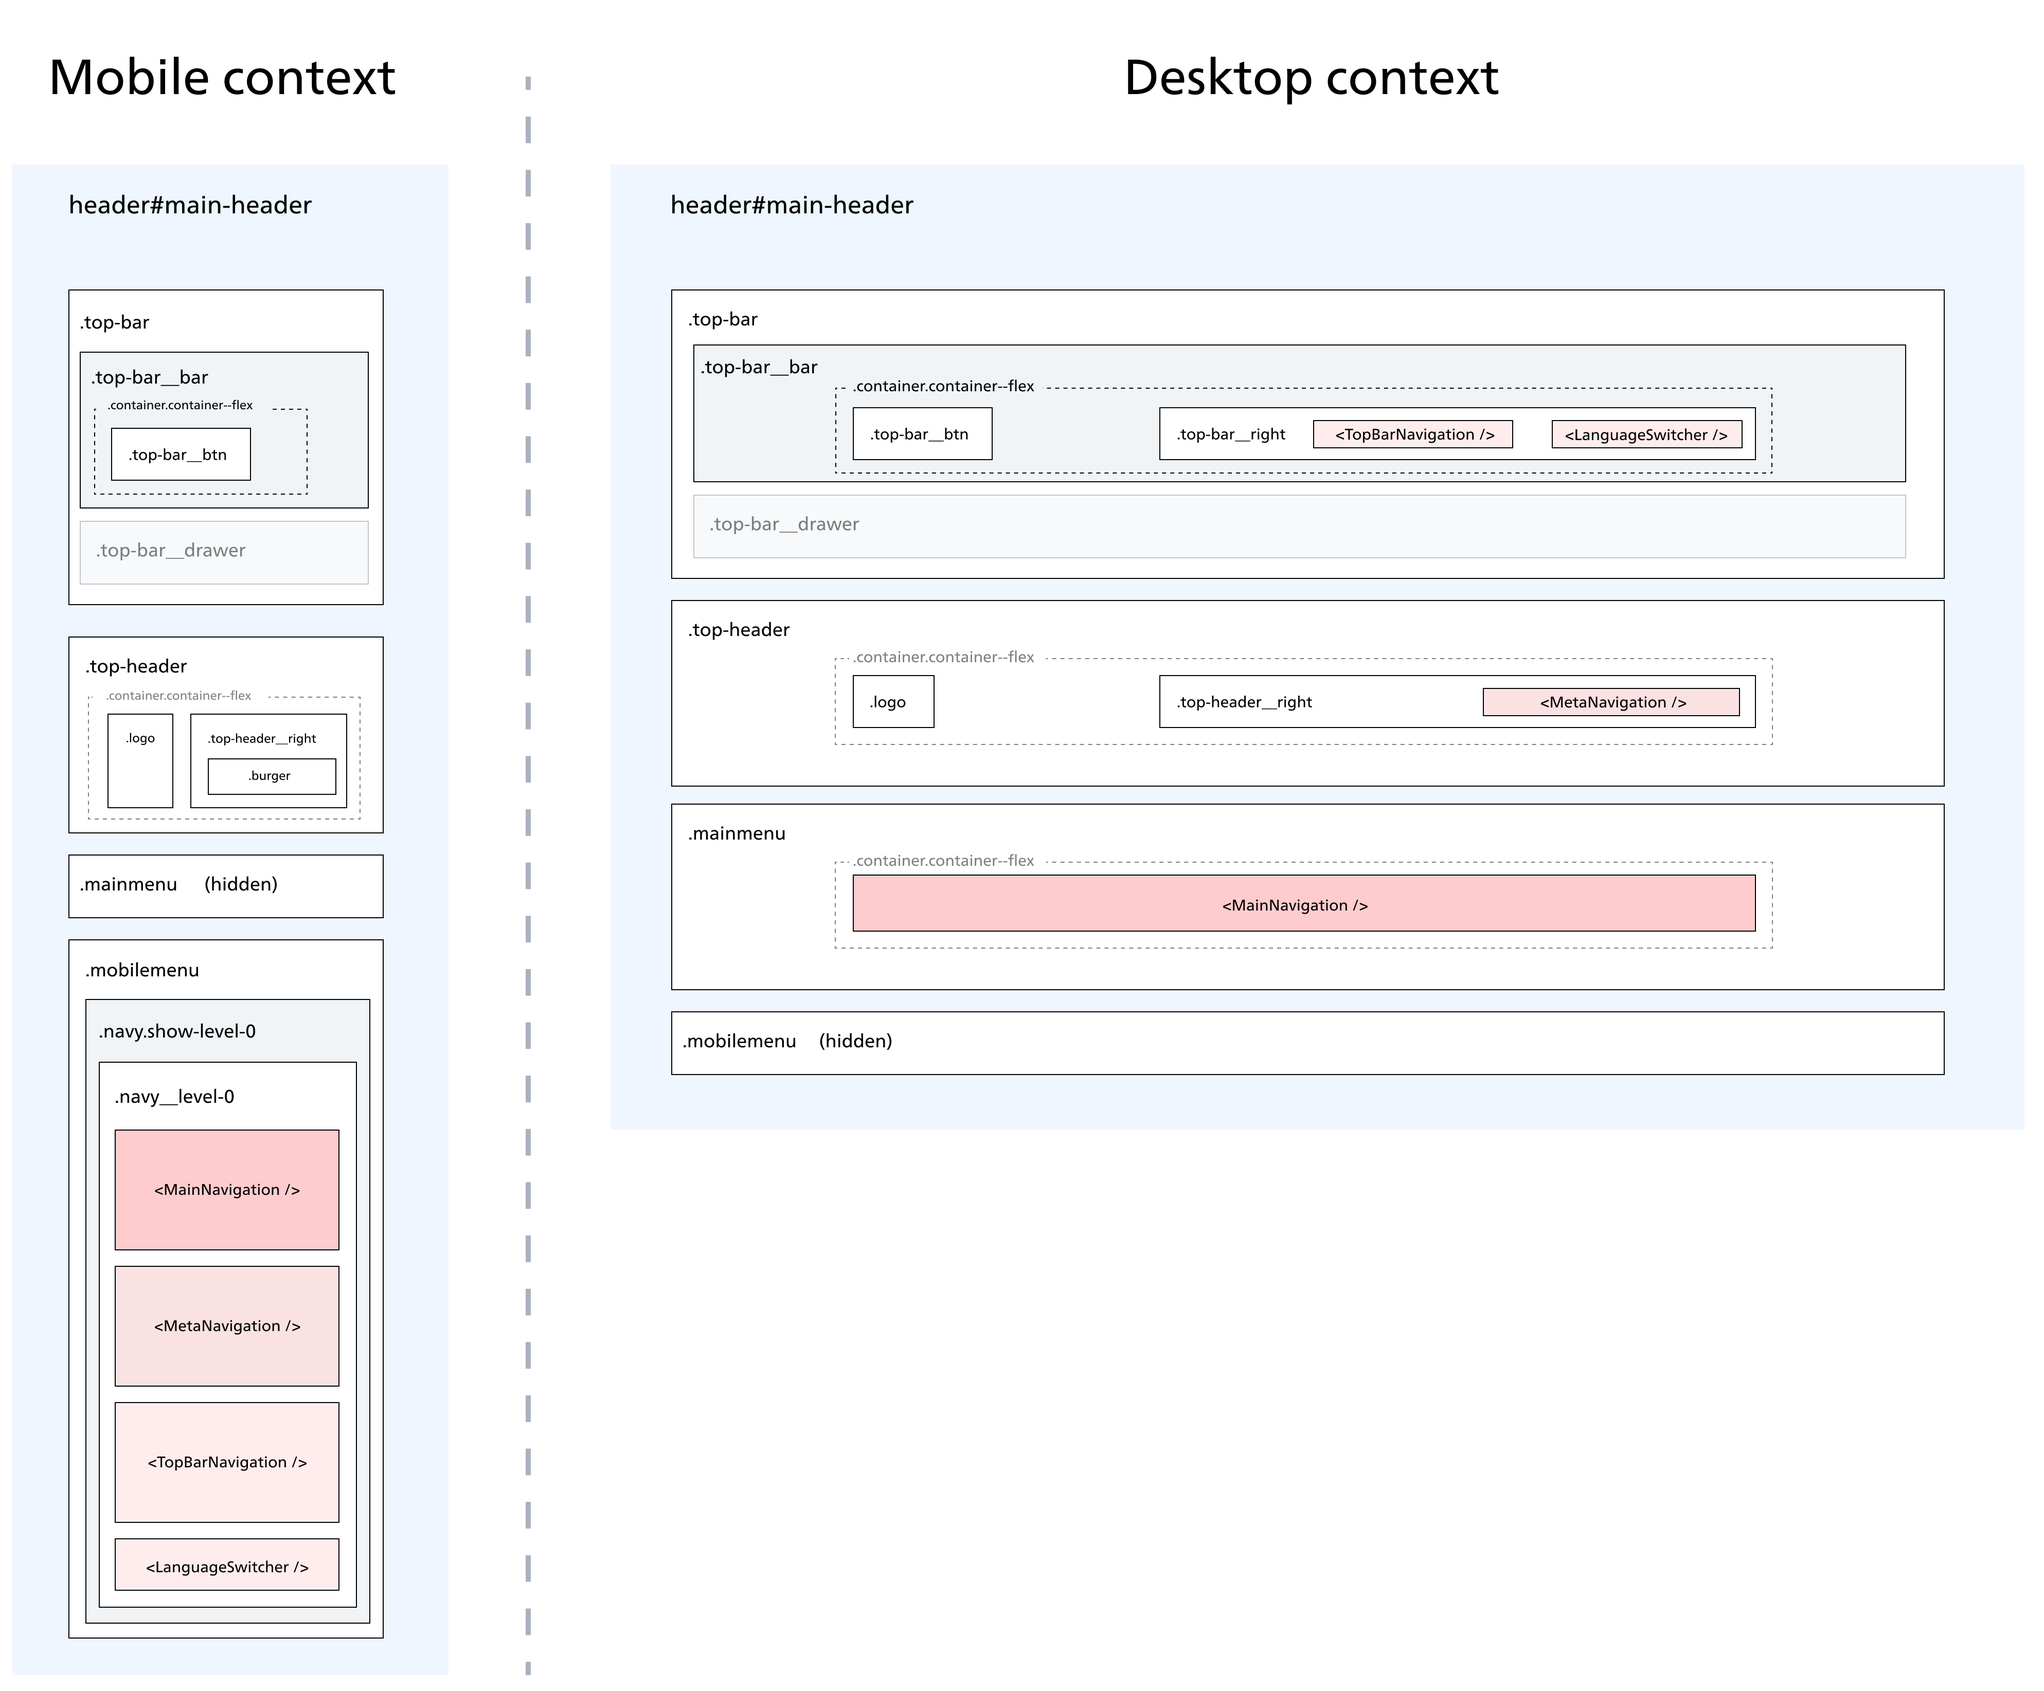
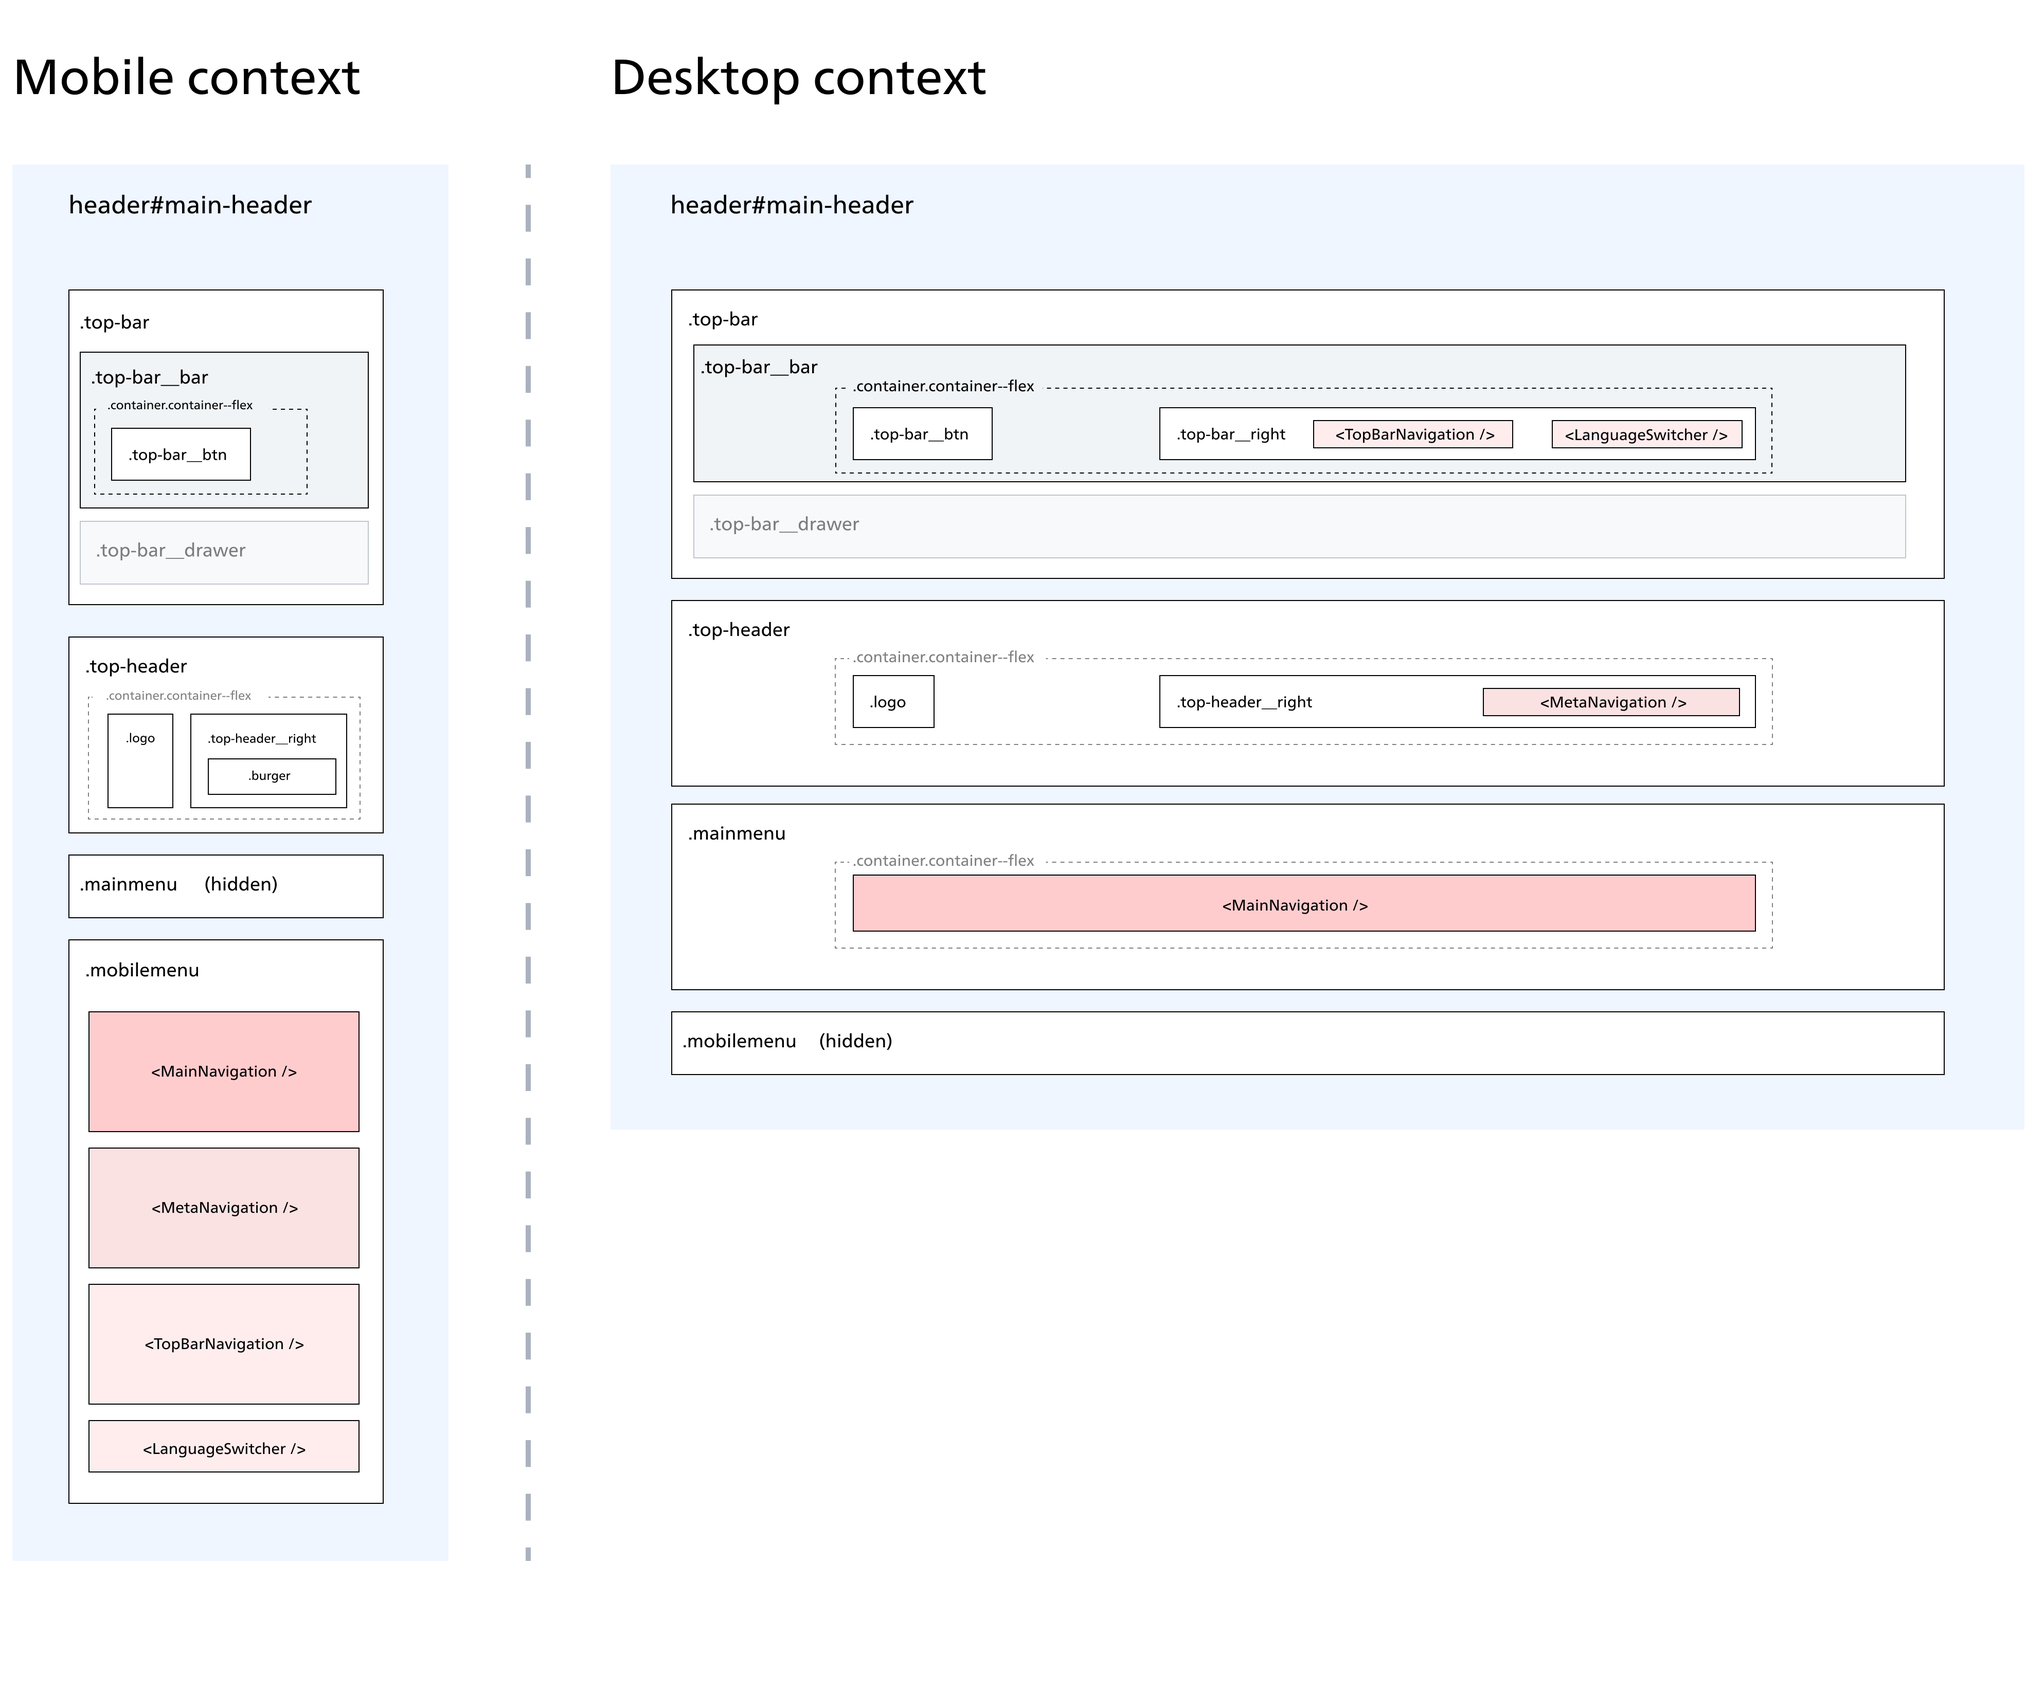
BDS-45 make it recursive + documentation

diff --git a/app/components/ch/navigations/MainNavigation.vue b/app/components/ch/navigations/MainNavigation.vue
@@ -43,61 +43,99 @@
                 <span class="navy__title">test level1</span>
                 <a href="#">Überblick</a>
               </li>
-              <ul>
-                <li>
-                  <a
-                    role="button"
-                    class="navy__has-children"
-                  >
-                    <span>Études</span>
-                    <SvgIcon icon="ArrowRight" size="lg" />
-                  </a>
-                  <ul>
-                    <a
-                      role="button"
-                      class="navy__back"
-                    >
+              <li>
+                <a
+                  role="button"
+                  class="navy__has-children"
+                >
+                  <span>test level2</span>
+                  <SvgIcon icon="ArrowRight" size="lg" />
+                </a>
+                <ul>
+                  <li>
+                    <a role="button" class="navy__back">
                       <SvgIcon icon="ArrowLeft" size="lg" />
                       <span>Back</span>
                     </a>
-                    <li><span>Geobasisdaten</span>
-                      <ul>
-                        <li><a href="#">Zeitplan</a></li>
-                        <li><a href="#">Geodatenmodelle</a></li>
-                        <li><a href="#">FAQ</a></li>
-                      </ul>
-                    </li>
-                    <li><span>Verzeichnis</span>
-                      <ul>
-                        <li><span>Basisdaten</span>
-                          <ul>
-                            <li><a href="#">Koordinatenreferenzsysteme</a></li>
-                            <li><a href="#">Geografische Bezeichnungen</a></li>
-                            <li><a href="#">Verwaltungseinheiten</a></li>
-                            <li><a href="#">Adressen</a></li>
-                          </ul>
-                        </li>
-                        <li><a href="#">Oberflächendarstellung und -modelle</a></li>
-                        <li><a href="#">Raum und Bevölkerung</a></li>
-                      </ul>
-                    </li>
-                  </ul>
-                </li>
-                <li><a href="#">Geodatenmodelle</a></li>
-                <li><a href="#">FAQ</a></li>
-              </ul>
-              <li><span>Verzeichnis</span>
-                <ul>
-                  <li><span>Basisdaten</span>
+                    <span class="navy__title">test level2</span>
+                    <a href="#">Überblick</a>
+                  </li>
+                  <li>
+                    <a
+                      role="button"
+                      class="navy__has-children"
+                    >
+                      <span>test level3</span>
+                      <SvgIcon icon="ArrowRight" size="lg" />
+                    </a>
                     <ul>
-                      <li><a href="#">Koordinatenreferenzsysteme</a></li>
-                      <li><a href="#">Geografische Bezeichnungen</a></li>
-                      <li><a href="#">Verwaltungseinheiten</a></li>
-                      <li><a href="#">Adressen</a></li>
+                      <li>
+                        <a role="button" class="navy__back">
+                          <SvgIcon icon="ArrowLeft" size="lg" />
+                          <span>Back</span>
+                        </a>
+                        <span class="navy__title">test level3</span>
+                        <a href="#">Überblick</a>
+                      </li>
+                      <li>
+                        <a
+                          role="button"
+                          class="navy__has-children"
+                        >
+                          <span>test level4</span>
+                          <SvgIcon icon="ArrowRight" size="lg" />
+                        </a>
+                        <ul>
+                          <li>
+                            <a role="button" class="navy__back">
+                              <SvgIcon icon="ArrowLeft" size="lg" />
+                              <span>Back</span>
+                            </a>
+                            <span class="navy__title">test level4</span>
+                            <a href="#">Überblick</a>
+                          </li>
+                          <li>
+                            <a
+                              role="button"
+                              class="navy__has-children"
+                            >
+                              <span>test level5</span>
+                              <SvgIcon icon="ArrowRight" size="lg" />
+                            </a>
+                            <ul>
+                              <li>
+                                <a role="button" class="navy__back">
+                                  <SvgIcon icon="ArrowLeft" size="lg" />
+                                  <span>Back</span>
+                                </a>
+                                <span class="navy__title">test level5</span>
+                                <a href="#">Überblick</a>
+                              </li>
+                              <li>
+                                <a
+                                  role="button"
+                                  class="navy__has-children"
+                                >
+                                  <span>test level6</span>
+                                  <SvgIcon icon="ArrowRight" size="lg" />
+                                </a>
+                                <ul>
+                                  <li>
+                                    <a role="button" class="navy__back">
+                                      <SvgIcon icon="ArrowLeft" size="lg" />
+                                      <span>Back</span>
+                                    </a>
+                                    <span class="navy__title">test level6</span>
+                                    <a href="#">Überblick</a>
+                                  </li>
+                                </ul>
+                              </li>
+                            </ul>
+                          </li>
+                        </ul>
+                      </li>
                     </ul>
                   </li>
-                  <li><a href="#">Oberflächendarstellung und -modelle</a></li>
-                  <li><a href="#">Raum und Bevölkerung</a></li>
                 </ul>
               </li>
             </ul>
@@ -118,7 +156,6 @@
           </li>
         </ul>
       </li>
-
       <li>
         <a href="#">
           Karten

diff --git a/app/scripts/Navy.js b/app/scripts/Navy.js
@@ -1,20 +1,11 @@
 const Navy = {
 
-  showNextLevel (currentLevel) {
-    Navy.container.classList.remove('show-level-0','show-level-1','show-level-2','show-level-3','show-level-4','show-level-5','show-level-6')
-    Navy.container.classList.add(`show-level-${currentLevel+1}`)
+  showLevel(level) {
+    Navy.container.classList.remove('show-level-0', 'show-level-1', 'show-level-2', 'show-level-3', 'show-level-4', 'show-level-5', 'show-level-6', 'show-level-7')
+    Navy.container.classList.add(`show-level-${level}`)
   },
 
-  showPrevLevel (currentLevel) {
-    Navy.container.classList.remove('show-level-0','show-level-1','show-level-2','show-level-3','show-level-4','show-level-5','show-level-6')
-     Navy.container.classList.add(`show-level-${currentLevel-1}`)
-
-    // set focus on the `parent` link after the transition
-    // 600ms is the duration of the sliding animation (find it in _navy.scss)
-    setTimeout(function () {Navy.currentMenuLink.focus() }, 610)
-  },
-
-  displaySubmenu (target, submenus) {
+  displayRelatedSubmenu (target, submenus) {
     [].forEach.call(submenus, function (submenu) {
       submenu.classList.add('hidden')
     })
@@ -26,8 +17,6 @@ const Navy = {
   },
 
   initEvents (nextButtons, backButtons, navy, container, submenus, level) {
-    // TODO make it recursive
-    // TODO separate buttin events from the rest
 
     [].forEach.call(nextButtons, function (btn) {
       btn.relatedMenu = btn.nextElementSibling
@@ -36,7 +25,7 @@ const Navy = {
 
       btn.addEventListener('click', function () {
         Navy.showNextLevel(0)
-        Navy.displaySubmenu(btn.relatedMenu, submenus)
+        Navy.displayRelatedSubmenu(btn.relatedMenu, submenus)
         Navy.currentMenuLink = btn
       })
     });
@@ -48,58 +37,86 @@ const Navy = {
     })
   },
 
-  init (navigations, target) {
+  parseTree(ul, level) {
+    let nextButtons = ul.querySelectorAll(':scope > li > .navy__has-children')
+    if ( nextButtons.length === 0 ) return
+
+    let backButtons = ul.querySelectorAll(':scope > li > ul > li > .navy__back')
+    let submenus = ul.querySelectorAll(":scope > li > ul");
+
+    [].forEach.call(nextButtons, function (btn) {
+      btn.style.backgroundColor = 'yellow'
+      btn.relatedMenu = btn.nextElementSibling
+
+      //container.appendChild(btn.relatedMenu)
+      Navy.level[level+1].appendChild(btn.relatedMenu)
+
+      btn.addEventListener('click', function () {
+        Navy.showLevel(level+1)
+        console.log('btn.relatedMenu, submenus', btn.relatedMenu, submenus)
+        Navy.displayRelatedSubmenu(btn.relatedMenu, submenus)
+        Navy.currentMenuLink = btn
+      })
+      Navy.parseTree(btn.relatedMenu, level+1)
+    });
+
+    [].forEach.call(backButtons, function (btn) {
+      btn.addEventListener('click', function () {
+        Navy.showLevel(level)
+      })
+    })
+  },
+
+  init (ulMenus, target) {
 
     // build navy structure and inject it in the target:
     const targetElement = document.querySelector(target)
+
+    Navy.currentMenuLink = undefined
     Navy.container = document.createElement('div')
-    Navy.level0 = document.createElement('div')
-    Navy.level1 = document.createElement('div')
-    Navy.level2 = document.createElement('div')
-    Navy.level3 = document.createElement('div')
-    Navy.level4 = document.createElement('div')
-    Navy.level5 = document.createElement('div')
-    Navy.level6 = document.createElement('div')
+    Navy.level = []
+    Navy.level[0] = document.createElement('div')
+    Navy.level[1] = document.createElement('div')
+    Navy.level[2] = document.createElement('div')
+    Navy.level[3] = document.createElement('div')
+    Navy.level[4] = document.createElement('div')
+    Navy.level[5] = document.createElement('div')
+    Navy.level[6] = document.createElement('div')
+    Navy.level[7] = document.createElement('div')
 
     Navy.container.classList.add('navy', 'show-level-0')
-    Navy.level0.classList.add('navy__level-0')
-    Navy.level1.classList.add('navy__level-1')
-    Navy.level2.classList.add('navy__level-2')
-    Navy.level3.classList.add('navy__level-3')
-    Navy.level4.classList.add('navy__level-4')
-    Navy.level5.classList.add('navy__level-5')
-    Navy.level6.classList.add('navy__level-6')
+    Navy.level[0].classList.add('navy__level-0')
+    Navy.level[1].classList.add('navy__level-1')
+    Navy.level[2].classList.add('navy__level-2')
+    Navy.level[3].classList.add('navy__level-3')
+    Navy.level[4].classList.add('navy__level-4')
+    Navy.level[5].classList.add('navy__level-5')
+    Navy.level[6].classList.add('navy__level-6')
+    Navy.level[7].classList.add('navy__level-7')
 
     targetElement.appendChild(Navy.container)
-    Navy.container.appendChild(Navy.level0)
-    Navy.container.appendChild(Navy.level1)
-    Navy.container.appendChild(Navy.level2)
-    Navy.container.appendChild(Navy.level3)
-    Navy.container.appendChild(Navy.level4)
-    Navy.container.appendChild(Navy.level5)
-    Navy.container.appendChild(Navy.level6)
+    Navy.container.appendChild(Navy.level[0])
+    Navy.container.appendChild(Navy.level[1])
+    Navy.container.appendChild(Navy.level[2])
+    Navy.container.appendChild(Navy.level[3])
+    Navy.container.appendChild(Navy.level[4])
+    Navy.container.appendChild(Navy.level[5])
+    Navy.container.appendChild(Navy.level[6])
+    Navy.container.appendChild(Navy.level[7])
 
 
-    // parse all navigations and init events:
-    let navs = document.querySelectorAll(navigations)
-    Navy.currentMenuLink = undefined
+    // parse all uls and init events:
+    let uls = document.querySelectorAll(ulMenus)
 
-    navs.forEach(function (navy) {
+    uls.forEach(function (ul) {
 
       // inject navigation in navy__level0
-      Navy.level0.appendChild(navy)
+      Navy.level[0].appendChild(ul)
 
-      let nextButtons1 = navy.querySelectorAll('.navy__has-children')
-      let backButtons1 = navy.querySelectorAll('.navy__back')
-
-      let submenus1 = navy.querySelectorAll("ul > li > ul")
-
-
-      //Navy.initEvents(nextButtons1, backButtons1, navy, Navy.level1, submenus1, 1)
+      // parse tree and inject uls in their respective slides
+      Navy.parseTree(ul, 0)
     })
   }
-
-
 }
 
 export default Navy

diff --git a/app/components/ch/sections/MobileMenu.vue b/app/components/ch/sections/MobileMenu.vue
@@ -32,7 +32,7 @@ export default {
     }
   },
   mounted () {
-    Navy.init('#mobilemenu nav', '#mobilemenu' )
+    Navy.init('#mobilemenu > nav > ul', '#mobilemenu' )
   }
 }
 </script>

diff --git a/app/store/layout.js b/app/store/layout.js
@@ -1,5 +1,5 @@
 export const state = () => ({
-  mobileMenuIsOpen: false
+  mobileMenuIsOpen: true
 })
 
 export const mutations = {
